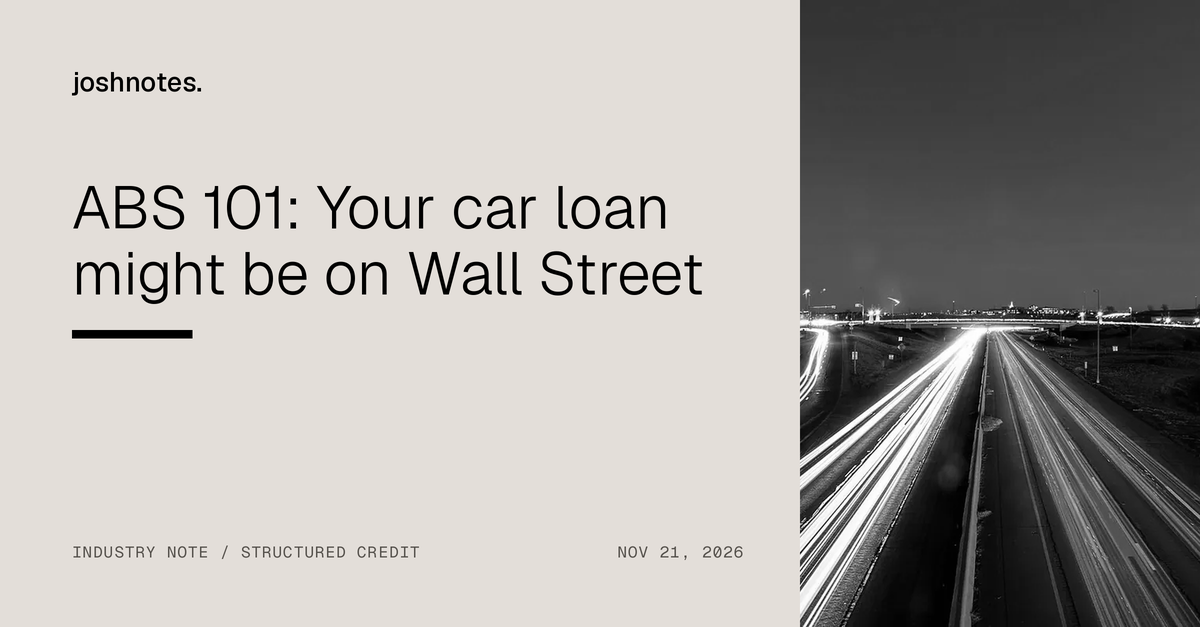
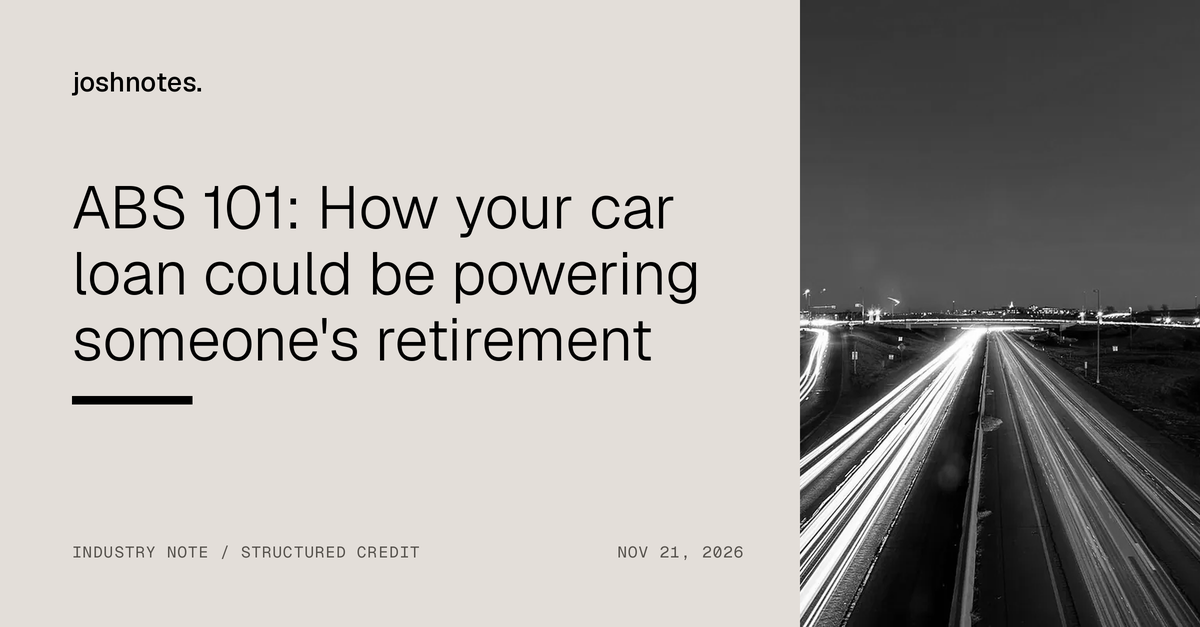
Research: Joshuva's titles for the five non-pitch pieces; ABS piece says who buys the bonds
Honeywell split. Now what? / All 32 banks passed the Fed's stress test. What does it mean? /
Will we run out of copper? / ABS 101: How your car loan could be powering someone's retirement /
Eight numbers that tell you if an industrial is the real deal
Auto ABS: one paragraph on who buys the tranches (banks, insurers, hedge funds, pension funds, asset managers), sourced to PIMCO.

Claude-Session: https://claude.ai/code/session_01Dc4KQMDr4px4SMpMrXU2Lh

Changed region(s): [[0.0617, 0.303, 0.5858, 0.4848], [0.0617, 0.5152, 0.555, 0.5758], [0.0617, 0.6061, 0.1542, 0.6667]]

diff --git a/index.html b/index.html
@@ -117,7 +117,7 @@
 <g class="x sn" data-s="computing drugs healthcare" data-k="healthcare" tabindex="0" role="button" aria-pressed="false" aria-label="Healthcare" aria-describedby="wc-healthcare"><circle class="hit" cx="110" cy="560" r="22"/><rect x="103" y="553" width="14" height="14"/><text class="snl" x="94" y="565" text-anchor="end">HEALTHCARE</text></g>
 <g class="x bn" data-s="computing drugs healthcare" data-k="drugs" tabindex="0" role="button" aria-pressed="false" aria-label="Drug discovery" aria-describedby="wc-drugs"><circle class="halo" cx="150.0" cy="470.0" r="9"/><circle cx="150.0" cy="470.0" r="4.5"/><text class="bll" x="138" y="475" text-anchor="end">DRUG DISCOVERY</text><title>Drug discovery</title></g>
 </svg>
-<figcaption class="wcap" aria-live="polite"><p class="wc wc-0">Interactive visual</p><p class="wc wc-metals" id="wc-metals"><b>Precious Metals:</b> Newmont, Agnico Eagle, and Wheaton Precious Metals. Linked to Energy through copper.</p><p class="wc wc-energy" id="wc-energy"><b>Energy:</b> <a href="/research/eaton/">Eaton</a>, GE Vernova, Vertiv, and Constellation Energy. Linked to Precious Metals through copper and to Computing through AI power demand.</p><p class="wc wc-computing" id="wc-computing"><b>Computing:</b> <a href="/research/palantir/">Palantir</a>, <a href="/research/quantinuum/">Quantinuum</a>, <a href="/notes/ai-bottleneck/">Microsoft</a>, and Nvidia. Linked to Energy through AI power demand, to Defense through Palantir, and to Healthcare through AI drug discovery.</p><p class="wc wc-defense" id="wc-defense"><b>Defense:</b> <a href="/research/palantir/">Palantir</a>, Lockheed Martin, RTX, and General Dynamics. Linked to Computing through Palantir.</p><p class="wc wc-healthcare" id="wc-healthcare"><b>Healthcare:</b> Eli Lilly, UnitedHealth, and Intuitive Surgical. Linked to Computing through AI drug discovery.</p><p class="wc wc-copper" id="wc-copper"><b>Copper, between Precious Metals and Energy:</b> Grids need copper. Newmont mined 135,000 tonnes of it last year, and Wheaton&#x27;s biggest gold stream comes from a copper mine. <a href="/research/copper/">Is the world running short on copper?</a>.</p><p class="wc wc-power" id="wc-power"><b>AI power, between Energy and Computing:</b> Microsoft&#x27;s AI capacity is running late on buildings, grid connections and power gear, which is what Eaton, Vertiv and GE Vernova sell. <a href="/notes/ai-bottleneck/">Did Microsoft just tell us where the AI bottleneck is?</a>.</p><p class="wc wc-pltr" id="wc-pltr"><b>Palantir, between Computing and Defense:</b> Palantir sells the same software to companies and to the U.S. military. <a href="/research/palantir/">Stock pitch: Sell</a>.</p><p class="wc wc-drugs" id="wc-drugs"><b>Drug discovery, between Computing and Healthcare:</b> Lilly&#x27;s AI supercomputer, built for drug discovery, runs on 1,016 Nvidia GPUs.</p></figcaption>
+<figcaption class="wcap" aria-live="polite"><p class="wc wc-0">Interactive visual</p><p class="wc wc-metals" id="wc-metals"><b>Precious Metals:</b> Newmont, Agnico Eagle, and Wheaton Precious Metals. Linked to Energy through copper.</p><p class="wc wc-energy" id="wc-energy"><b>Energy:</b> <a href="/research/eaton/">Eaton</a>, GE Vernova, Vertiv, and Constellation Energy. Linked to Precious Metals through copper and to Computing through AI power demand.</p><p class="wc wc-computing" id="wc-computing"><b>Computing:</b> <a href="/research/palantir/">Palantir</a>, <a href="/research/quantinuum/">Quantinuum</a>, <a href="/notes/ai-bottleneck/">Microsoft</a>, and Nvidia. Linked to Energy through AI power demand, to Defense through Palantir, and to Healthcare through AI drug discovery.</p><p class="wc wc-defense" id="wc-defense"><b>Defense:</b> <a href="/research/palantir/">Palantir</a>, Lockheed Martin, RTX, and General Dynamics. Linked to Computing through Palantir.</p><p class="wc wc-healthcare" id="wc-healthcare"><b>Healthcare:</b> Eli Lilly, UnitedHealth, and Intuitive Surgical. Linked to Computing through AI drug discovery.</p><p class="wc wc-copper" id="wc-copper"><b>Copper, between Precious Metals and Energy:</b> Grids need copper. Newmont mined 135,000 tonnes of it last year, and Wheaton&#x27;s biggest gold stream comes from a copper mine. <a href="/research/copper/">Will we run out of copper?</a>.</p><p class="wc wc-power" id="wc-power"><b>AI power, between Energy and Computing:</b> Microsoft&#x27;s AI capacity is running late on buildings, grid connections and power gear, which is what Eaton, Vertiv and GE Vernova sell. <a href="/notes/ai-bottleneck/">Did Microsoft just tell us where the AI bottleneck is?</a>.</p><p class="wc wc-pltr" id="wc-pltr"><b>Palantir, between Computing and Defense:</b> Palantir sells the same software to companies and to the U.S. military. <a href="/research/palantir/">Stock pitch: Sell</a>.</p><p class="wc wc-drugs" id="wc-drugs"><b>Drug discovery, between Computing and Healthcare:</b> Lilly&#x27;s AI supercomputer, built for drug discovery, runs on 1,016 Nvidia GPUs.</p></figcaption>
 </figure>
     </section>
     <aside class="front-side">
@@ -153,9 +153,9 @@
     <section aria-labelledby="research-title">
       <div class="lbl-row"><h2 class="lbl" id="research-title">Research</h2><a class="go" href="/research/" aria-label="All research" title="All research"><svg viewBox="0 0 16 16" aria-hidden="true"><path d="M2.5 8h10.5M9 4l4 4-4 4"/></svg></a></div>
       <ul class="hl">
-        <li><a href="/research/honeywell-breakup/">Honeywell: Did anything come out of the breakup?</a></li>
-        <li><a href="/research/stress-test-2026/">All 32 banks passed the stress test. Should we still be stressed?</a></li>
-        <li><a href="/research/copper/">Is the world running short on copper?</a></li>
+        <li><a href="/research/honeywell-breakup/">Honeywell split. Now what?</a></li>
+        <li><a href="/research/stress-test-2026/">All 32 banks passed the Fed&#x27;s stress test. What does it mean?</a></li>
+        <li><a href="/research/copper/">Will we run out of copper?</a></li>
       </ul>
     </section>
   </div>

diff --git a/research/auto-abs/index.html b/research/auto-abs/index.html
@@ -3,18 +3,18 @@
 <head>
 <meta charset="utf-8">
 <meta name="viewport" content="width=device-width, initial-scale=1">
-<title>ABS 101: Your car loan might be on Wall Street | joshnotes</title>
+<title>ABS 101: How your car loan could be powering someone&#x27;s retirement | joshnotes</title>
 <meta name="description" content="Securitization turns thousands of monthly car payments into rated bonds. How the machine works, and where 2026&#x27;s stress is showing up.">
 <link rel="canonical" href="https://joshnotes.github.io/research/auto-abs/">
 <meta property="og:site_name" content="joshnotes">
-<meta property="og:title" content="ABS 101: Your car loan might be on Wall Street">
+<meta property="og:title" content="ABS 101: How your car loan could be powering someone&#x27;s retirement">
 <meta property="og:description" content="Securitization turns thousands of monthly car payments into rated bonds. How the machine works, and where 2026&#x27;s stress is showing up.">
 <meta property="og:url" content="https://joshnotes.github.io/research/auto-abs/">
 <meta property="og:type" content="article">
 <meta property="og:image" content="https://joshnotes.github.io/assets/og/research-auto-abs.png">
 <meta property="og:image:width" content="1200">
 <meta property="og:image:height" content="627">
-<meta property="og:image:alt" content="ABS 101: Your car loan might be on Wall Street">
+<meta property="og:image:alt" content="ABS 101: How your car loan could be powering someone&#x27;s retirement">
 <meta name="twitter:card" content="summary_large_image">
 <meta property="article:published_time" content="2026-11-21">
 <meta property="article:author" content="Joshuva Johnson">
@@ -47,7 +47,7 @@
 <main id="main">
 <article class="artwrap gut">
   <p class="crumbs"><a href="/research/">Research</a><span>/</span><span>Industry note</span></p>
-  <h1>ABS 101: Your car loan might be on Wall Street</h1>
+  <h1>ABS 101: How your car loan could be powering someone&#x27;s retirement</h1>
   <p class="dek">Securitization turns thousands of monthly car payments into rated bonds. How the machine works, and where 2026&#x27;s stress is showing up.</p>
   <p class="byline"><b>Joshuva Johnson</b><time datetime="2026-11-21">Nov 21, 2026</time></p>
 <div class="kf"><div><b>$127B</b><span>U.S. auto ABS issued in 2025, a record</span></div><div><b>6.90%</b><span>Record subprime 60+ day delinquency, Jan 2026</span></div><div><b>5.80%</b><span>Subprime 60+ day delinquency, mid-2026</span></div><div><b>81.5%</b><span>Share of delinquencies from the riskiest 37% of balances</span></div></div>
@@ -64,6 +64,7 @@
 <li><strong>Run the waterfall.</strong> Each month, collections flow down a fixed order of payments. A servicer collects payments and reports delinquencies, losses and prepayments.</li>
 <li><strong>Watch the triggers.</strong> If losses or delinquencies cross set thresholds, cash gets redirected to protect the senior bonds.</li>
 </ol>
+<p>Who buys the bonds? Mostly institutions. Banks and insurance companies stick to the safest tranches, hedge funds take the riskier layers, and pension funds and asset managers buy them too. So the payment you make on your car each month can end up as income for a pension fund, which means it helps pay for someone's retirement.</p>
 <h2>The accounting side</h2>
 <p>I worked in securitization accounting at an auto finance company, and the part most explanations skip is the balance sheet question. Whether a transfer counts as a sale or stays on the lender's books as a secured borrowing depends on control and on whether the lender has to consolidate the trust under the variable-interest-entity rules. Many captive auto lenders keep their securitizations on balance sheet, so the loans and the bonds both stay visible in their financial statements.</p>
 <h2>Where 2026's stress is</h2>
@@ -72,6 +73,7 @@
 <div class="wim"><p class="kick">View</p><p>The structure is working as designed: senior tranches have deep protection, and the losses land on the subordinate tranches and the weakest pools, which is where they're supposed to land. The things to watch are trigger breaches in recent subprime deals and whether stress starts spreading from stretched borrowers into stable ones.</p></div>
 </div>
 <section class="sources"><h2>Sources</h2><ol>
+<li><a href="https://www.pimco.com/eu/en/resources/education/understanding-securitized-products">Understanding securitized products</a>, PIMCO</li>
 <li><a href="https://www.autoremarketing.com/?p=82346">Auto ABS volume generates another record in 2025</a>, Auto Remarketing (S&amp;P Global Ratings data)</li>
 <li><a href="https://tradingeconomics.com/united-states/car-loan-delinquency">United States car loan delinquency</a>, Trading Economics (Fitch Auto ABS Indices)</li>
 <li><a href="https://www.autoremarketing.com/?p=130785">Fitch watches tax-refund boost on securitizations fade</a>, Auto Remarketing</li>
@@ -79,7 +81,7 @@
 <li><a href="https://www.kbra.com/publications/mHcxCFSy/kbra-releases-research-auto-loan-abs-why-borrower-pockets-matter-more-than-pool-averages">Auto Loan ABS: Why Borrower Pockets Matter More Than Pool Averages</a>, KBRA, Jul 27, 2026</li>
 </ol></section>
 
-  <nav class="pager" aria-label="More in Research"><a class="nextup" href="/research/copper/"><p class="kick">Previous</p><h3>Is the world running short on copper?</h3></a><a class="nextup" href="/research/reading-industrials/"><p class="kick">Next</p><h3>Industrials 101: eight numbers that tell the real story</h3></a></nav>
+  <nav class="pager" aria-label="More in Research"><a class="nextup" href="/research/copper/"><p class="kick">Previous</p><h3>Will we run out of copper?</h3></a><a class="nextup" href="/research/reading-industrials/"><p class="kick">Next</p><h3>Eight numbers that tell you if an industrial is the real deal</h3></a></nav>
 </article>
 </main>
 

diff --git a/research/reading-industrials/index.html b/research/reading-industrials/index.html
@@ -3,18 +3,18 @@
 <head>
 <meta charset="utf-8">
 <meta name="viewport" content="width=device-width, initial-scale=1">
-<title>Industrials 101: eight numbers that tell the real story | joshnotes</title>
+<title>Eight numbers that tell you if an industrial is the real deal | joshnotes</title>
 <meta name="description" content="The eight numbers I use to read an industrial company, from orders and backlog to margins and cash, worked through with Eaton&#x27;s latest quarter.">
 <link rel="canonical" href="https://joshnotes.github.io/research/reading-industrials/">
 <meta property="og:site_name" content="joshnotes">
-<meta property="og:title" content="Industrials 101: eight numbers that tell the real story">
+<meta property="og:title" content="Eight numbers that tell you if an industrial is the real deal">
 <meta property="og:description" content="The eight numbers I use to read an industrial company, from orders and backlog to margins and cash, worked through with Eaton&#x27;s latest quarter.">
 <meta property="og:url" content="https://joshnotes.github.io/research/reading-industrials/">
 <meta property="og:type" content="article">
 <meta property="og:image" content="https://joshnotes.github.io/assets/og/research-reading-industrials.png">
 <meta property="og:image:width" content="1200">
 <meta property="og:image:height" content="627">
-<meta property="og:image:alt" content="Industrials 101: eight numbers that tell the real story">
+<meta property="og:image:alt" content="Eight numbers that tell you if an industrial is the real deal">
 <meta name="twitter:card" content="summary_large_image">
 <meta property="article:published_time" content="2026-11-21">
 <meta property="article:author" content="Joshuva Johnson">
@@ -47,7 +47,7 @@
 <main id="main">
 <article class="artwrap gut">
   <p class="crumbs"><a href="/research/">Research</a><span>/</span><span>Industry note</span></p>
-  <h1>Industrials 101: eight numbers that tell the real story</h1>
+  <h1>Eight numbers that tell you if an industrial is the real deal</h1>
   <p class="dek">The eight numbers I use to read an industrial company, from orders and backlog to margins and cash, worked through with Eaton&#x27;s latest quarter.</p>
   <p class="byline"><b>Joshuva Johnson</b><time datetime="2026-11-21">Nov 21, 2026</time></p>
 <figure class="lead photo"><img src="/assets/img/lead/research-reading-industrials-1200.webp" srcset="/assets/img/lead/research-reading-industrials-600.webp 600w, /assets/img/lead/research-reading-industrials-1200.webp 1200w" sizes="(max-width: 640px) 100vw, 880px" width="1200" height="800" alt="Fan blades and inlet guide vanes of a jet engine"><figcaption>Photo: <a href="https://commons.wikimedia.org/wiki/File:Fan_blades_and_inlet_guide_vanes_of_GEnx-2B.jpg">Olivier Cleynen</a>, <a href="https://creativecommons.org/licenses/by-sa/3.0/">CC BY-SA 3.0</a>, cropped</figcaption></figure>
@@ -82,7 +82,7 @@
 <li><a href="https://investor.honeywell.com/news-releases/news-release-details/separation-8-k-supplemental-financial-information-newsletter">Honeywell Technologies Completes Spin-Off of Honeywell Aerospace</a>, Honeywell</li>
 </ol></section>
 
-  <nav class="pager" aria-label="More in Research"><a class="nextup" href="/research/auto-abs/"><p class="kick">Previous</p><h3>ABS 101: Your car loan might be on Wall Street</h3></a></nav>
+  <nav class="pager" aria-label="More in Research"><a class="nextup" href="/research/auto-abs/"><p class="kick">Previous</p><h3>ABS 101: How your car loan could be powering someone&#x27;s retirement</h3></a></nav>
 </article>
 </main>
 

diff --git a/research/stress-test-2026/index.html b/research/stress-test-2026/index.html
@@ -3,18 +3,18 @@
 <head>
 <meta charset="utf-8">
 <meta name="viewport" content="width=device-width, initial-scale=1">
-<title>All 32 banks passed the stress test. Should we still be stressed? | joshnotes</title>
+<title>All 32 banks passed the Fed&#x27;s stress test. What does it mean? | joshnotes</title>
 <meta name="description" content="Thirty-two banks, $708 billion of hypothetical losses and $719 billion of pre-provision net revenue to absorb them. How to read the results.">
 <link rel="canonical" href="https://joshnotes.github.io/research/stress-test-2026/">
 <meta property="og:site_name" content="joshnotes">
-<meta property="og:title" content="All 32 banks passed the stress test. Should we still be stressed?">
+<meta property="og:title" content="All 32 banks passed the Fed&#x27;s stress test. What does it mean?">
 <meta property="og:description" content="Thirty-two banks, $708 billion of hypothetical losses and $719 billion of pre-provision net revenue to absorb them. How to read the results.">
 <meta property="og:url" content="https://joshnotes.github.io/research/stress-test-2026/">
 <meta property="og:type" content="article">
 <meta property="og:image" content="https://joshnotes.github.io/assets/og/research-stress-test-2026.png">
 <meta property="og:image:width" content="1200">
 <meta property="og:image:height" content="627">
-<meta property="og:image:alt" content="All 32 banks passed the stress test. Should we still be stressed?">
+<meta property="og:image:alt" content="All 32 banks passed the Fed&#x27;s stress test. What does it mean?">
 <meta name="twitter:card" content="summary_large_image">
 <meta property="article:published_time" content="2026-11-21">
 <meta property="article:author" content="Joshuva Johnson">
@@ -47,7 +47,7 @@
 <main id="main">
 <article class="artwrap gut">
   <p class="crumbs"><a href="/research/">Research</a><span>/</span><span>Market note</span></p>
-  <h1>All 32 banks passed the stress test. Should we still be stressed?</h1>
+  <h1>All 32 banks passed the Fed&#x27;s stress test. What does it mean?</h1>
   <p class="dek">Thirty-two banks, $708 billion of hypothetical losses and $719 billion of pre-provision net revenue to absorb them. How to read the results.</p>
   <p class="byline"><b>Joshuva Johnson</b><time datetime="2026-11-21">Nov 21, 2026</time></p>
 <div class="kf"><div><b>32</b><span>Banks tested</span></div><div><b>$708B</b><span>Projected losses over nine quarters</span></div><div><b>$719B</b><span>Pre-provision net revenue</span></div><div><b>1.6 pts</b><span>Aggregate CET1 decline</span></div></div>
@@ -90,7 +90,7 @@
 <li><a href="https://news.bloomberglaw.com/banking-law/big-banks-pass-fed-stress-test-paving-way-for-payouts">Big Banks Pass Fed Stress Test, Quickly Boost Payouts</a>, Bloomberg Law</li>
 </ol></section>
 
-  <nav class="pager" aria-label="More in Research"><a class="nextup" href="/research/honeywell-breakup/"><p class="kick">Previous</p><h3>Honeywell: Did anything come out of the breakup?</h3></a><a class="nextup" href="/research/copper/"><p class="kick">Next</p><h3>Is the world running short on copper?</h3></a></nav>
+  <nav class="pager" aria-label="More in Research"><a class="nextup" href="/research/honeywell-breakup/"><p class="kick">Previous</p><h3>Honeywell split. Now what?</h3></a><a class="nextup" href="/research/copper/"><p class="kick">Next</p><h3>Will we run out of copper?</h3></a></nav>
 </article>
 </main>
 

diff --git a/research/copper/index.html b/research/copper/index.html
@@ -3,18 +3,18 @@
 <head>
 <meta charset="utf-8">
 <meta name="viewport" content="width=device-width, initial-scale=1">
-<title>Is the world running short on copper? | joshnotes</title>
+<title>Will we run out of copper? | joshnotes</title>
 <meta name="description" content="Records in September on mine disruptions and zero smelting fees. November&#x27;s sell-off knocked prices back. The supply problem didn&#x27;t go anywhere.">
 <link rel="canonical" href="https://joshnotes.github.io/research/copper/">
 <meta property="og:site_name" content="joshnotes">
-<meta property="og:title" content="Is the world running short on copper?">
+<meta property="og:title" content="Will we run out of copper?">
 <meta property="og:description" content="Records in September on mine disruptions and zero smelting fees. November&#x27;s sell-off knocked prices back. The supply problem didn&#x27;t go anywhere.">
 <meta property="og:url" content="https://joshnotes.github.io/research/copper/">
 <meta property="og:type" content="article">
 <meta property="og:image" content="https://joshnotes.github.io/assets/og/research-copper.png">
 <meta property="og:image:width" content="1200">
 <meta property="og:image:height" content="627">
-<meta property="og:image:alt" content="Is the world running short on copper?">
+<meta property="og:image:alt" content="Will we run out of copper?">
 <meta name="twitter:card" content="summary_large_image">
 <meta property="article:published_time" content="2026-11-21">
 <meta property="article:author" content="Joshuva Johnson">
@@ -47,7 +47,7 @@
 <main id="main">
 <article class="artwrap gut">
   <p class="crumbs"><a href="/research/">Research</a><span>/</span><span>Industry note</span></p>
-  <h1>Is the world running short on copper?</h1>
+  <h1>Will we run out of copper?</h1>
   <p class="dek">Records in September on mine disruptions and zero smelting fees. November&#x27;s sell-off knocked prices back. The supply problem didn&#x27;t go anywhere.</p>
   <p class="byline"><b>Joshuva Johnson</b><time datetime="2026-11-21">Nov 21, 2026</time></p>
 <div class="kf"><div><b>~$14,875</b><span>LME record per tonne, Sept 10, 2026</span></div><div><b>$13,210</b><span>Low on Nov 16, the weakest since July</span></div><div><b>$0</b><span>2026 benchmark smelting charge per tonne</span></div><div><b>~600kt</b><span>ING's 2026 refined deficit estimate</span></div></div>
@@ -79,7 +79,7 @@
 <li><a href="https://www.caixinglobal.com/2026-09-10/copper-near-record-high-as-us-tariff-fears-and-ai-demand-tighten-market-102483357.html">Copper near record high as US tariff fears and AI demand tighten market</a>, Caixin</li>
 </ol></section>
 
-  <nav class="pager" aria-label="More in Research"><a class="nextup" href="/research/stress-test-2026/"><p class="kick">Previous</p><h3>All 32 banks passed the stress test. Should we still be stressed?</h3></a><a class="nextup" href="/research/auto-abs/"><p class="kick">Next</p><h3>ABS 101: Your car loan might be on Wall Street</h3></a></nav>
+  <nav class="pager" aria-label="More in Research"><a class="nextup" href="/research/stress-test-2026/"><p class="kick">Previous</p><h3>All 32 banks passed the Fed&#x27;s stress test. What does it mean?</h3></a><a class="nextup" href="/research/auto-abs/"><p class="kick">Next</p><h3>ABS 101: How your car loan could be powering someone&#x27;s retirement</h3></a></nav>
 </article>
 </main>
 

diff --git a/research/honeywell-breakup/index.html b/research/honeywell-breakup/index.html
@@ -3,18 +3,18 @@
 <head>
 <meta charset="utf-8">
 <meta name="viewport" content="width=device-width, initial-scale=1">
-<title>Honeywell: Did anything come out of the breakup? | joshnotes</title>
+<title>Honeywell split. Now what? | joshnotes</title>
 <meta name="description" content="The separation is done. The verdict comes with the first full year of standalone numbers for Honeywell Technologies, Honeywell Aerospace and Solstice.">
 <link rel="canonical" href="https://joshnotes.github.io/research/honeywell-breakup/">
 <meta property="og:site_name" content="joshnotes">
-<meta property="og:title" content="Honeywell: Did anything come out of the breakup?">
+<meta property="og:title" content="Honeywell split. Now what?">
 <meta property="og:description" content="The separation is done. The verdict comes with the first full year of standalone numbers for Honeywell Technologies, Honeywell Aerospace and Solstice.">
 <meta property="og:url" content="https://joshnotes.github.io/research/honeywell-breakup/">
 <meta property="og:type" content="article">
 <meta property="og:image" content="https://joshnotes.github.io/assets/og/research-honeywell-breakup.png">
 <meta property="og:image:width" content="1200">
 <meta property="og:image:height" content="627">
-<meta property="og:image:alt" content="Honeywell: Did anything come out of the breakup?">
+<meta property="og:image:alt" content="Honeywell split. Now what?">
 <meta name="twitter:card" content="summary_large_image">
 <meta property="article:published_time" content="2026-11-21">
 <meta property="article:author" content="Joshuva Johnson">
@@ -47,7 +47,7 @@
 <main id="main">
 <article class="artwrap gut">
   <p class="crumbs"><a href="/research/">Research</a><span>/</span><span>Deal breakdown</span></p>
-  <h1>Honeywell: Did anything come out of the breakup?</h1>
+  <h1>Honeywell split. Now what?</h1>
   <p class="dek">The separation is done. The verdict comes with the first full year of standalone numbers for Honeywell Technologies, Honeywell Aerospace and Solstice.</p>
   <p class="byline"><b>Joshuva Johnson</b><time datetime="2026-11-21">Nov 21, 2026</time></p>
 <div class="kf"><div><b>3</b><span>Independent companies from one</span></div><div><b>Oct 30, 2025</b><span>Solstice Advanced Materials spun off</span></div><div><b>Jun 29, 2026</b><span>Honeywell Aerospace spun off</span></div><div><b>HON, HONA, SOLS</b><span>Tickers today</span></div></div>
@@ -88,7 +88,7 @@
 <li><a href="https://www.manufacturingdive.com/news/honeywell-solstice-advanced-materials-spinoff-refrigerant-electronics-/804271/">Honeywell finalizes Solstice spinoff</a>, Manufacturing Dive</li>
 </ol></section>
 
-  <nav class="pager" aria-label="More in Research"><a class="nextup" href="/research/quantinuum/"><p class="kick">Previous</p><h3>Schrödinger&#x27;s stock: is Quantinuum worth it?</h3></a><a class="nextup" href="/research/stress-test-2026/"><p class="kick">Next</p><h3>All 32 banks passed the stress test. Should we still be stressed?</h3></a></nav>
+  <nav class="pager" aria-label="More in Research"><a class="nextup" href="/research/quantinuum/"><p class="kick">Previous</p><h3>Schrödinger&#x27;s stock: is Quantinuum worth it?</h3></a><a class="nextup" href="/research/stress-test-2026/"><p class="kick">Next</p><h3>All 32 banks passed the Fed&#x27;s stress test. What does it mean?</h3></a></nav>
 </article>
 </main>
 

diff --git a/research/index.html b/research/index.html
@@ -68,11 +68,11 @@
   <div class="wrap">
     <div class="head plain"><h2 id="all-title">More research</h2></div>
     <div class="list" id="r-list">
-      <a class="lrow" href="/research/honeywell-breakup/"><h3>Honeywell: Did anything come out of the breakup?</h3><p>The separation is done. The verdict comes with the first full year of standalone numbers for Honeywell Technologies, Honeywell Aerospace and Solstice.</p></a>
-      <a class="lrow" href="/research/stress-test-2026/"><h3>All 32 banks passed the stress test. Should we still be stressed?</h3><p>Thirty-two banks, $708 billion of hypothetical losses and $719 billion of pre-provision net revenue to absorb them. How to read the results.</p></a>
-      <a class="lrow" href="/research/copper/"><h3>Is the world running short on copper?</h3><p>Records in September on mine disruptions and zero smelting fees. November&#x27;s sell-off knocked prices back. The supply problem didn&#x27;t go anywhere.</p></a>
-      <a class="lrow" href="/research/auto-abs/"><h3>ABS 101: Your car loan might be on Wall Street</h3><p>Securitization turns thousands of monthly car payments into rated bonds. How the machine works, and where 2026&#x27;s stress is showing up.</p></a>
-      <a class="lrow" href="/research/reading-industrials/"><h3>Industrials 101: eight numbers that tell the real story</h3><p>The eight numbers I use to read an industrial company, from orders and backlog to margins and cash, worked through with Eaton&#x27;s latest quarter.</p></a>
+      <a class="lrow" href="/research/honeywell-breakup/"><h3>Honeywell split. Now what?</h3><p>The separation is done. The verdict comes with the first full year of standalone numbers for Honeywell Technologies, Honeywell Aerospace and Solstice.</p></a>
+      <a class="lrow" href="/research/stress-test-2026/"><h3>All 32 banks passed the Fed&#x27;s stress test. What does it mean?</h3><p>Thirty-two banks, $708 billion of hypothetical losses and $719 billion of pre-provision net revenue to absorb them. How to read the results.</p></a>
+      <a class="lrow" href="/research/copper/"><h3>Will we run out of copper?</h3><p>Records in September on mine disruptions and zero smelting fees. November&#x27;s sell-off knocked prices back. The supply problem didn&#x27;t go anywhere.</p></a>
+      <a class="lrow" href="/research/auto-abs/"><h3>ABS 101: How your car loan could be powering someone&#x27;s retirement</h3><p>Securitization turns thousands of monthly car payments into rated bonds. How the machine works, and where 2026&#x27;s stress is showing up.</p></a>
+      <a class="lrow" href="/research/reading-industrials/"><h3>Eight numbers that tell you if an industrial is the real deal</h3><p>The eight numbers I use to read an industrial company, from orders and backlog to margins and cash, worked through with Eaton&#x27;s latest quarter.</p></a>
     </div>
   </div>
 </section>

diff --git a/src/content/research/auto-abs.html b/src/content/research/auto-abs.html
@@ -1,6 +1,6 @@
 <!--meta
 {
-  "title": "ABS 101: Your car loan might be on Wall Street",
+  "title": "ABS 101: How your car loan could be powering someone's retirement",
   "dek": "Securitization turns thousands of monthly car payments into rated bonds. How the machine works, and where 2026's stress is showing up.",
   "date": "2026-11-21",
   "section": "research",
@@ -25,6 +25,7 @@
 <li><strong>Run the waterfall.</strong> Each month, collections flow down a fixed order of payments. A servicer collects payments and reports delinquencies, losses and prepayments.</li>
 <li><strong>Watch the triggers.</strong> If losses or delinquencies cross set thresholds, cash gets redirected to protect the senior bonds.</li>
 </ol>
+<p>Who buys the bonds? Mostly institutions. Banks and insurance companies stick to the safest tranches, hedge funds take the riskier layers, and pension funds and asset managers buy them too. So the payment you make on your car each month can end up as income for a pension fund, which means it helps pay for someone's retirement.</p>
 <h2>The accounting side</h2>
 <p>I worked in securitization accounting at an auto finance company, and the part most explanations skip is the balance sheet question. Whether a transfer counts as a sale or stays on the lender's books as a secured borrowing depends on control and on whether the lender has to consolidate the trust under the variable-interest-entity rules. Many captive auto lenders keep their securitizations on balance sheet, so the loans and the bonds both stay visible in their financial statements.</p>
 <h2>Where 2026's stress is</h2>
@@ -33,6 +34,7 @@
 <div class="wim"><p class="kick">View</p><p>The structure is working as designed: senior tranches have deep protection, and the losses land on the subordinate tranches and the weakest pools, which is where they're supposed to land. The things to watch are trigger breaches in recent subprime deals and whether stress starts spreading from stretched borrowers into stable ones.</p></div>
 </div>
 <section class="sources"><h2>Sources</h2><ol>
+<li><a href="https://www.pimco.com/eu/en/resources/education/understanding-securitized-products">Understanding securitized products</a>, PIMCO</li>
 <li><a href="https://www.autoremarketing.com/?p=82346">Auto ABS volume generates another record in 2025</a>, Auto Remarketing (S&amp;P Global Ratings data)</li>
 <li><a href="https://tradingeconomics.com/united-states/car-loan-delinquency">United States car loan delinquency</a>, Trading Economics (Fitch Auto ABS Indices)</li>
 <li><a href="https://www.autoremarketing.com/?p=130785">Fitch watches tax-refund boost on securitizations fade</a>, Auto Remarketing</li>

diff --git a/research/quantinuum/index.html b/research/quantinuum/index.html
@@ -159,7 +159,7 @@
 <li><a href="https://www.heygotrade.com/en/us-stock/qnt/">Quantinuum (QNT) analyst targets</a>, Gotrade</li>
 </ol></section>
 
-  <nav class="pager" aria-label="More in Research"><a class="nextup" href="/research/honeywell/"><p class="kick">Previous</p><h3>Is Honeywell priced too sweet?</h3></a><a class="nextup" href="/research/honeywell-breakup/"><p class="kick">Next</p><h3>Honeywell: Did anything come out of the breakup?</h3></a></nav>
+  <nav class="pager" aria-label="More in Research"><a class="nextup" href="/research/honeywell/"><p class="kick">Previous</p><h3>Is Honeywell priced too sweet?</h3></a><a class="nextup" href="/research/honeywell-breakup/"><p class="kick">Next</p><h3>Honeywell split. Now what?</h3></a></nav>
 </article>
 </main>
 

diff --git a/src/content/research/stress-test-2026.html b/src/content/research/stress-test-2026.html
@@ -1,6 +1,6 @@
 <!--meta
 {
-  "title": "All 32 banks passed the stress test. Should we still be stressed?",
+  "title": "All 32 banks passed the Fed's stress test. What does it mean?",
   "dek": "Thirty-two banks, $708 billion of hypothetical losses and $719 billion of pre-provision net revenue to absorb them. How to read the results.",
   "date": "2026-11-21",
   "section": "research",

diff --git a/src/content/research/reading-industrials.html b/src/content/research/reading-industrials.html
@@ -1,6 +1,6 @@
 <!--meta
 {
-  "title": "Industrials 101: eight numbers that tell the real story",
+  "title": "Eight numbers that tell you if an industrial is the real deal",
   "dek": "The eight numbers I use to read an industrial company, from orders and backlog to margins and cash, worked through with Eaton's latest quarter.",
   "date": "2026-11-21",
   "section": "research",

diff --git a/src/content/research/honeywell-breakup.html b/src/content/research/honeywell-breakup.html
@@ -1,6 +1,6 @@
 <!--meta
 {
-  "title": "Honeywell: Did anything come out of the breakup?",
+  "title": "Honeywell split. Now what?",
   "dek": "The separation is done. The verdict comes with the first full year of standalone numbers for Honeywell Technologies, Honeywell Aerospace and Solstice.",
   "date": "2026-11-21",
   "section": "research",
